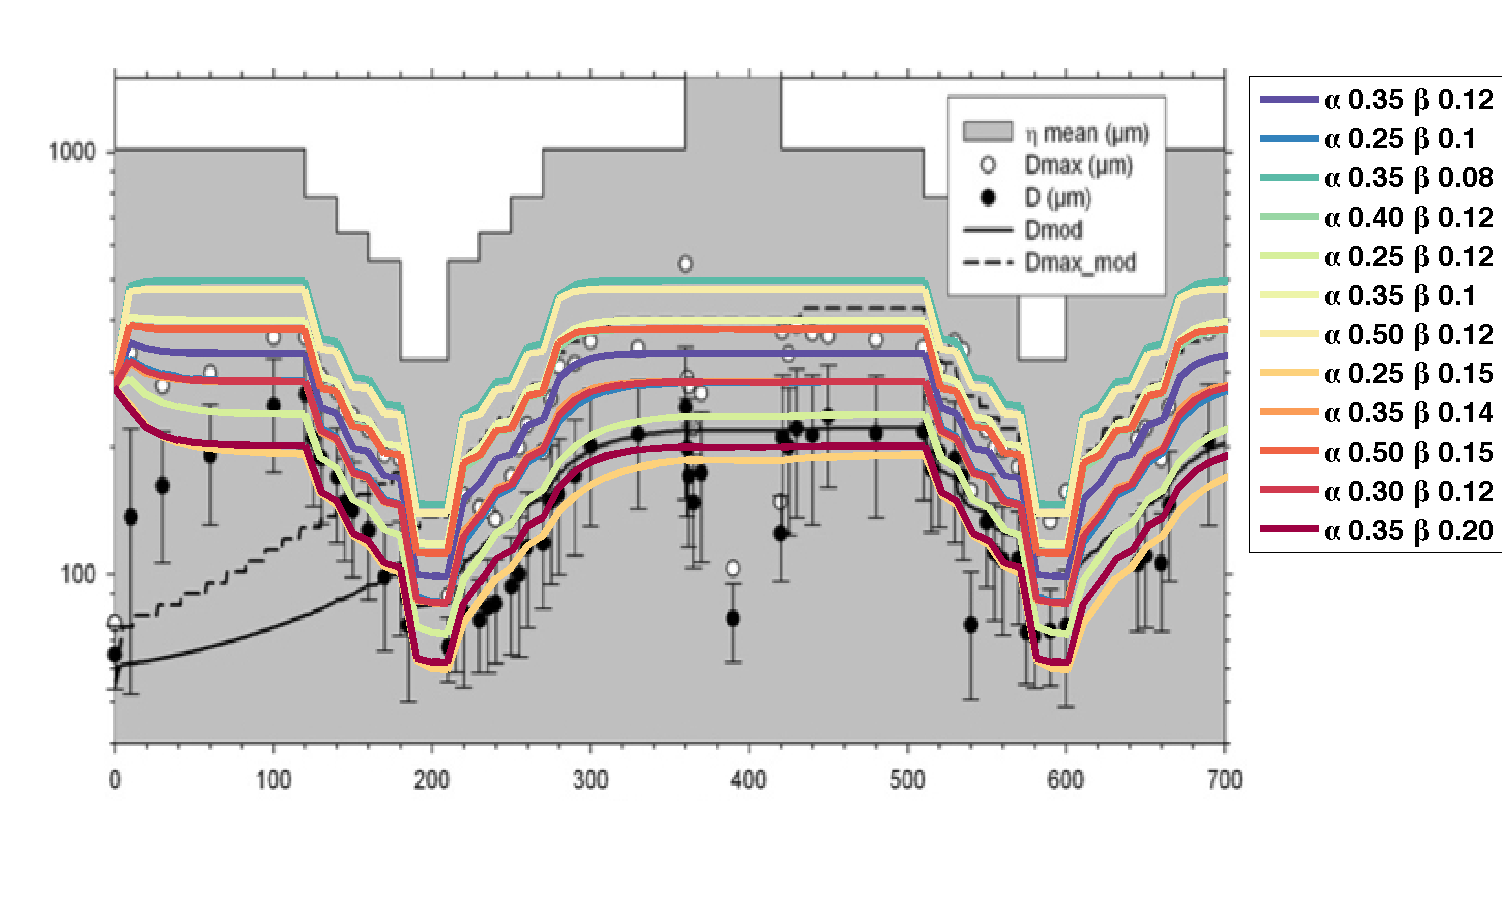
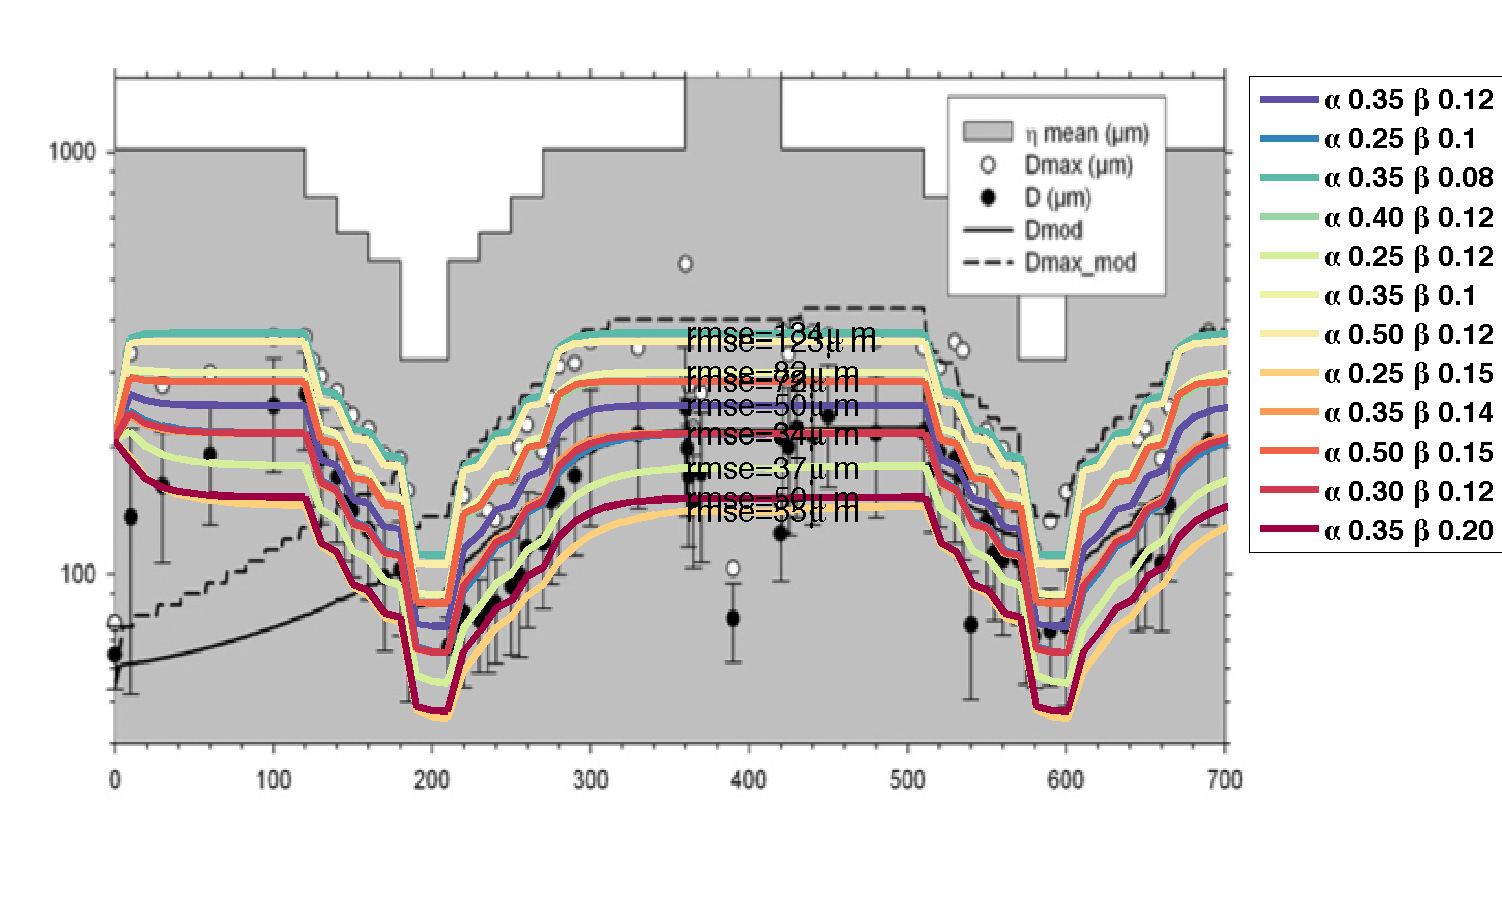
comparison with data
Verney rms is 30microm for 100 classes + 8 microm more from 15 classes to 100

Changed region(s): [[0.0613, 0.28, 0.8269, 0.8089]]

diff --git a/alphabeta_rms.html b/alphabeta_rms.html
@@ -1,0 +1,85 @@
+<html>
+<body>
+<title></title>
+<table frame="hsides" border="1" cellspacing="1" cellpadding="1" width="500">
+<CAPTION><b><em>RMSE</em></b></CAPTION>
+  <tr>
+  <td WIDTH=25></td>
+  <td WIDTH=25>\alpha</td>
+  <td WIDTH=25>\beta</td>
+  <td WIDTH=25>RMSE</td>
+  </tr>
+  <tr>
+  <td WIDTH=25></td>
+  <td WIDTH=25>0.35</td>
+  <td WIDTH=25>0.12</td>
+  <td WIDTH=25>49.7</td>
+  </tr>
+  <tr>
+  <td WIDTH=25></td>
+  <td WIDTH=25>0.25</td>
+  <td WIDTH=25>0.1</td>
+  <td WIDTH=25>33.8</td>
+  </tr>
+  <tr>
+  <td WIDTH=25></td>
+  <td WIDTH=25>0.35</td>
+  <td WIDTH=25>0.08</td>
+  <td WIDTH=25>134</td>
+  </tr>
+  <tr>
+  <td WIDTH=25></td>
+  <td WIDTH=25>0.4</td>
+  <td WIDTH=25>0.12</td>
+  <td WIDTH=25>72.4</td>
+  </tr>
+  <tr>
+  <td WIDTH=25></td>
+  <td WIDTH=25>0.25</td>
+  <td WIDTH=25>0.12</td>
+  <td WIDTH=25>37</td>
+  </tr>
+  <tr>
+  <td WIDTH=25></td>
+  <td WIDTH=25>0.35</td>
+  <td WIDTH=25>0.1</td>
+  <td WIDTH=25>81.7</td>
+  </tr>
+  <tr>
+  <td WIDTH=25></td>
+  <td WIDTH=25>0.5</td>
+  <td WIDTH=25>0.12</td>
+  <td WIDTH=25>123</td>
+  </tr>
+  <tr>
+  <td WIDTH=25></td>
+  <td WIDTH=25>0.25</td>
+  <td WIDTH=25>0.15</td>
+  <td WIDTH=25>55.3</td>
+  </tr>
+  <tr>
+  <td WIDTH=25></td>
+  <td WIDTH=25>0.35</td>
+  <td WIDTH=25>0.14</td>
+  <td WIDTH=25>34.3</td>
+  </tr>
+  <tr>
+  <td WIDTH=25></td>
+  <td WIDTH=25>0.5</td>
+  <td WIDTH=25>0.15</td>
+  <td WIDTH=25>72.9</td>
+  </tr>
+  <tr>
+  <td WIDTH=25></td>
+  <td WIDTH=25>0.3</td>
+  <td WIDTH=25>0.12</td>
+  <td WIDTH=25>34.1</td>
+  </tr>
+  <tr>
+  <td WIDTH=25></td>
+  <td WIDTH=25>0.35</td>
+  <td WIDTH=25>0.2</td>
+  <td WIDTH=25>50</td>
+  </tr>
+</table></body>
+</html>

diff --git a/verney_fig7_compar_alphabeta.m b/verney_fig7_compar_alphabeta.m
@@ -1,0 +1,67 @@
+clear
+
+I = imread('Verneyetal_CSR_2011_Fig7_crop.jpg');
+
+load('verney_obs.mat');
+
+figure(1);clf
+set(gcf,'PaperPosition',[.5,.5,10,6]);wysiwyg
+image(I);
+set(gca,'Visible','off')
+aa0=get(gca,'Position');aa=aa0;
+aa(1)=0.03;aa(3)=0.8;
+set(gca,'Position',aa)
+%%
+load Verney_multiinit_alphabeta.mat 
+url='http://geoport.whoi.edu/thredds/dodsC/sand/usgs/users/aretxabaleta/floc/ocean_his_';
+nc = ncgeodataset([url,'verneyc11_ncs15.nc'])
+fdiam = 1e6*nc{'Sd50'}(:);
+
+%%
+lineStyles=linspecer(length(allr));
+
+%%
+axes('Position',[0.0760    0.1750    0.7410    0.7410])
+set(gca,'Visible','off')
+hold on
+for ii=1:length(allr)
+    %h1(ii)=line(allr{ii}.tt,allr{ii}.fdiam_25,'Color',lineStyles(ii,:),'LineWidth',3.5);
+    modi=interp1(allr{ii}.tt,allr{ii}.fdiam_25,ttobso);
+    err(ii)=rms(modi-diamobso);    
+end
+for ii=1:length(allr)
+    %h1(ii)=line(allr{ii}.tt,allr{ii}.fdiam_ar,'Color',lineStyles(ii,:),'LineWidth',3.5);
+    modia=interp1(allr{ii}.tt,allr{ii}.fdiam_ar,ttobso);
+    erra(ii)=rms(modia-diamobso);    
+end
+for ii=1:length(allr)
+    h1(ii)=line(allr{ii}.tt,allr{ii}.fdiam_dum,'Color',lineStyles(ii,:),'LineWidth',3.5);
+    modia3=interp1(allr{ii}.tt,allr{ii}.fdiam_dum,ttobso);
+    erra3(ii)=rms(modia3-diamobso);    
+end
+%aa=get(gca,'Position');
+%line(ttobs,diamobs,'LineStyle','none','Marker','.','MarkerFaceColor','b','MarkerSize',20)
+for ii=1:length(allr)
+    text(allr{ii}.tt(37),allr{ii}.fdiam_dum(37),...
+        ['rmse=',num2str(erra3(ii),'%2.0f'),'\mum']);
+end
+set(gca,'YLim',[40,1500],'XLim',[0,700],'YScale','log','FontSize',14,'FontWeight','bold')
+ylabel('Average diameter (mm) ')
+xlabel('Time (min)');grid
+hle=legend([h1],'\alpha 0.35 \beta 0.12','\alpha 0.25 \beta 0.1','\alpha 0.35 \beta 0.08',...
+    '\alpha 0.40 \beta 0.12','\alpha 0.25 \beta 0.12','\alpha 0.35 \beta 0.1',...
+    '\alpha 0.50 \beta 0.12','\alpha 0.25 \beta 0.15','\alpha 0.35 \beta 0.14','\alpha 0.50 \beta 0.15',...
+    '\alpha 0.30 \beta 0.12','\alpha 0.35 \beta 0.20',...
+       'Location','BestOutside');
+set(gca,'Position',[0.0760    0.1750    0.7410    0.7410])
+
+print -dpng -painters compar_figure7_verney_alphabeta.png
+
+%%
+row_text={[],[],[],[],[],[],[],[],[],[],[],[]};
+col_text={'\alpha','\beta','RMSE'};
+D=[0.35,0.25,0.35,0.4,0.25,0.35,0.5,0.25,0.35,0.5,0.3,0.35;...
+   0.12,0.1,0.08,0.12,0.12,0.1,0.12,0.15,0.14,0.15,0.12,0.2;...
+   erra3]';
+errtab=html_table(D,row_text,col_text,['RMSE'],'alphabeta_rms.html',1)
+
